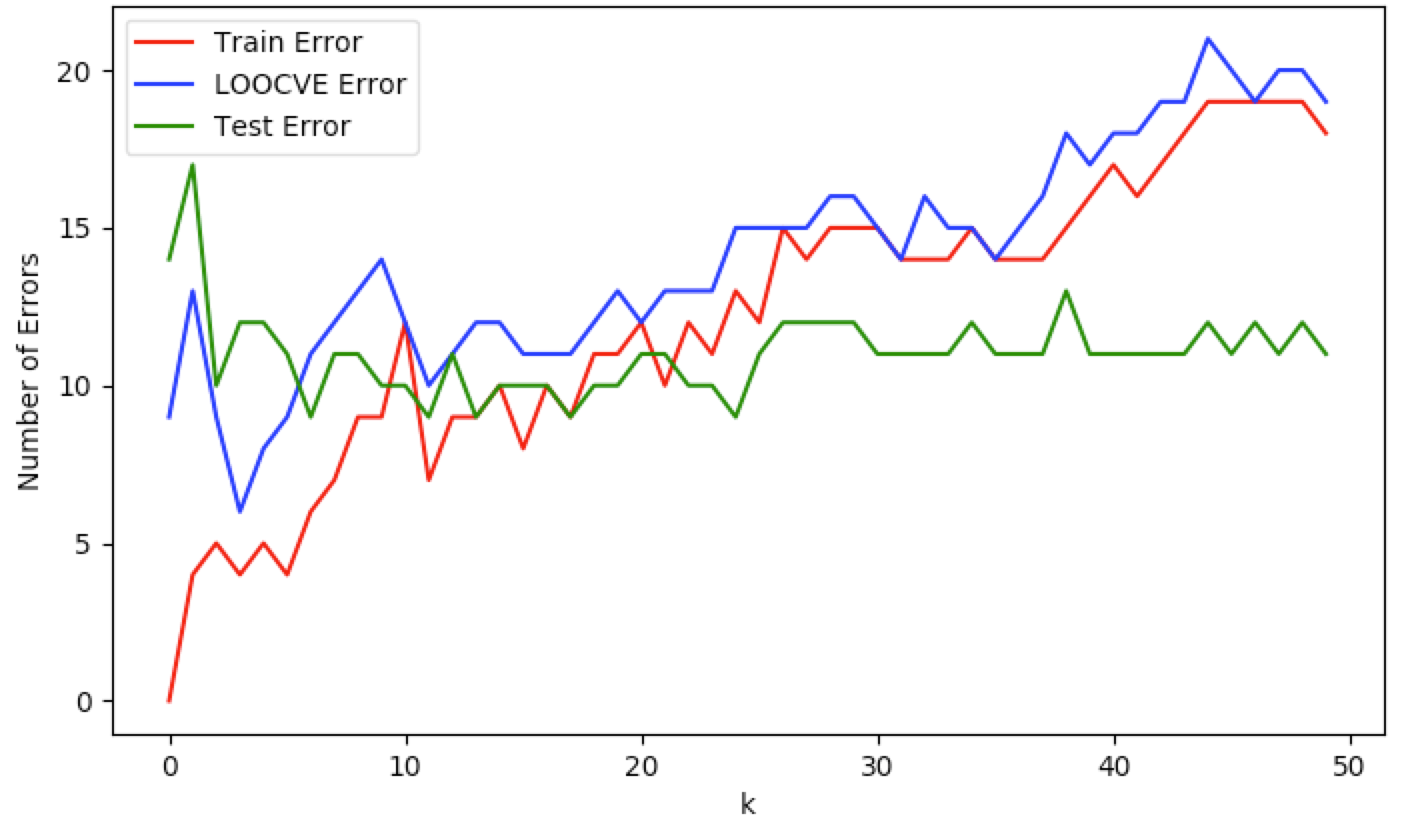
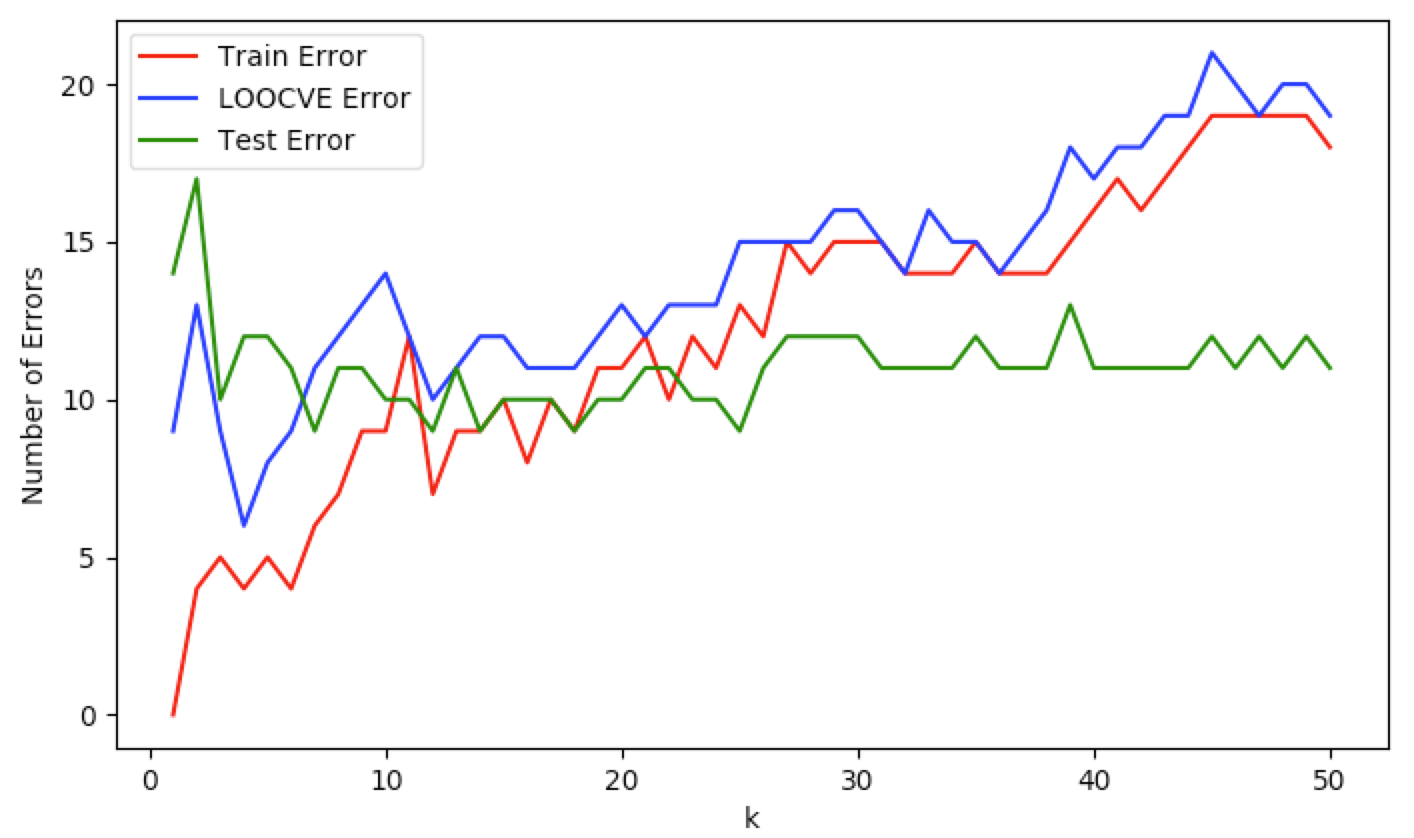
All done

diff --git a/Assignment2/report/report.md b/Assignment2/report/report.md
@@ -12,8 +12,14 @@ fontsize: 11pt
 
 ![Plot of KNN using various error methods](./img/knn_plot.png)
 
-3. In the plot above, you can see that the train error starts at 0. This is because each training example put through the knn algorithm is finding itself in the training set as its 1 nearest neighbor, and as a result the algorithm correctly classifies 100% of the time. The training error gradually increases because it is allowing examples that are very different from the data point being evaluated to be taken into account when deciding the majority class of all the neighbors.
-    The Leave-One-Out Cross-Validation-Error has 9 Errors when k = 1
+3. In the plot above, you can see that the train error = 0 when k = 1. This is because each training example put through the knn algorithm is finding itself in the training set as its 1 nearest neighbor, and as a result the algorithm correctly classifies 100% of the time. The training error gradually increases because it is allowing examples that are very different from the data point being evaluated to be taken into account when deciding the majority class of all the neighbors.
+
+    The Leave-One-Out Cross-Validation-Error has 9 Errors when k = 1. This is because the data point that we are predicting was left out of the training set the it is pulling neighbors from. This results in a more realistic prediction because the unlike with the plain training set, the majority class of the data point won't take into account the same data point in the training set. The error rate is lowest when k = 4, and then gradually increases with k.
+
+    The testing error decreases until it hits it's minimum of 9 errors at k = 12. The error then hovers around 11. In this case the test error was better than the LOOCVE error when k > 6.
+
+    We performed model selection by looping through the LOOCVE error of the knn algorithm for k between 1 and 50. Our model selection returned k = 4 as the optimal number of neighbors for this dataset.
+
 
 
 # Decision Tree
@@ -24,17 +30,17 @@ fontsize: 11pt
 
 2. Using the code that was written for the stump as the basis, the greedy algorithm was implemented recursively. The algorithm calculates the best feature and theta to divide on, based off of the information gain, then it recursively calls itself on both sides of the split. This continues until a specified depth, or if the node can't be split anymore (it is all one class). To test the tree, classifying each data point according to the tree. If a data point is misclassified, then it is tallied as a mistake. As can be seen in the following table and plot, with an increase in depth the accuracy also increased, to a point.
 
-**$Depth$**  **Training Mistake**    **Training Accuracy**  **Testing Mistakes** **Testing Accuracy**
------------  -------                 -------                ------               ------
-1            101                     35.56                  111                  39.08
-2            24                      8.45                   38                   13.38
-3            24                      8.45                   38                   13.38
-4            24                      8.45                   38                   13.38
-5            24                      8.45                   38                   13.38
-6            22                      7.74                   25                   8.8
-7            11                      3.87                   17                   5.99
------------  -------                 -------                ------               -------
+    **$Depth$**  **Training Mistake**    **Training Accuracy**  **Testing Mistakes** **Testing Accuracy**
+    -----------  -------                 -------                ------               ------
+    1            101                     35.56                  111                  39.08
+    2            24                      8.45                   38                   13.38
+    3            24                      8.45                   38                   13.38
+    4            24                      8.45                   38                   13.38
+    5            24                      8.45                   38                   13.38
+    6            22                      7.74                   25                   8.8
+    7            11                      3.87                   17                   5.99
+    -----------  -------                 -------                ------               -------
 
-This chart shows the training and testing accuracies, for the first depths.  As the depth is increased the accuracy can be increased.  This is due to fitting and finer tuning of the tree. With more depth, more branches and leaves are added. This allows each leaf to have more specific requirements, making it less likely that one would contain incorrect data.  This is only true for the training data, as increasing the depth may in fact be causing over fitting. This can be seen past the depth of 8, at which point our testing data does less well in the tree. Using the training data, the tree was able to classify all of the data points correctly, at a depth of 12. The divergence between the training and testing data can be seen in the plot below.
+    This chart shows the training and testing accuracies, for the first depths.  As the depth is increased the accuracy can be increased.  This is due to fitting and finer tuning of the tree. With more depth, more branches and leaves are added. This allows each leaf to have more specific requirements, making it less likely that one would contain incorrect data.  This is only true for the training data, as increasing the depth may in fact be causing over fitting. This can be seen past the depth of 8, at which point our testing data does less well in the tree. Using the training data, the tree was able to classify all of the data points correctly, at a depth of 12. The divergence between the training and testing data can be seen in the plot below.
 
 ![Plot of depth 1-17](./img/decision_tree_plot.png)
